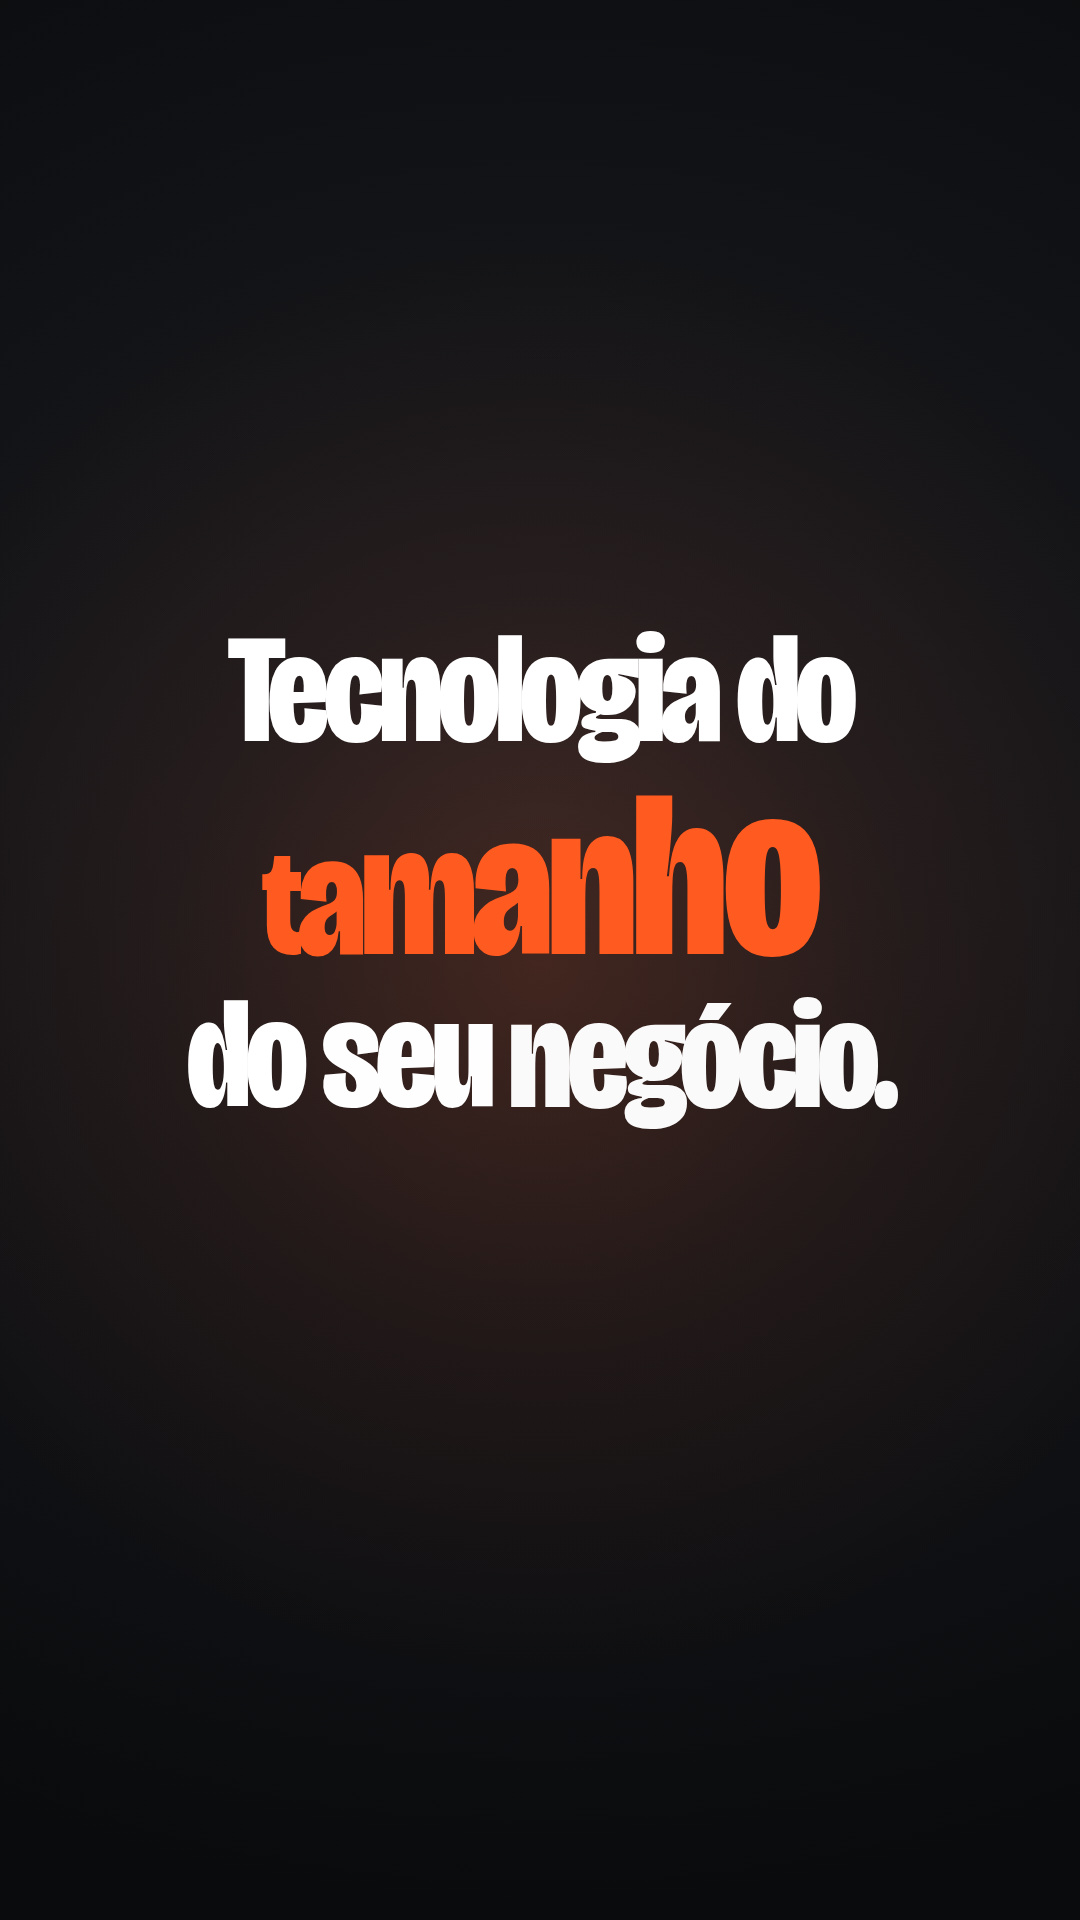
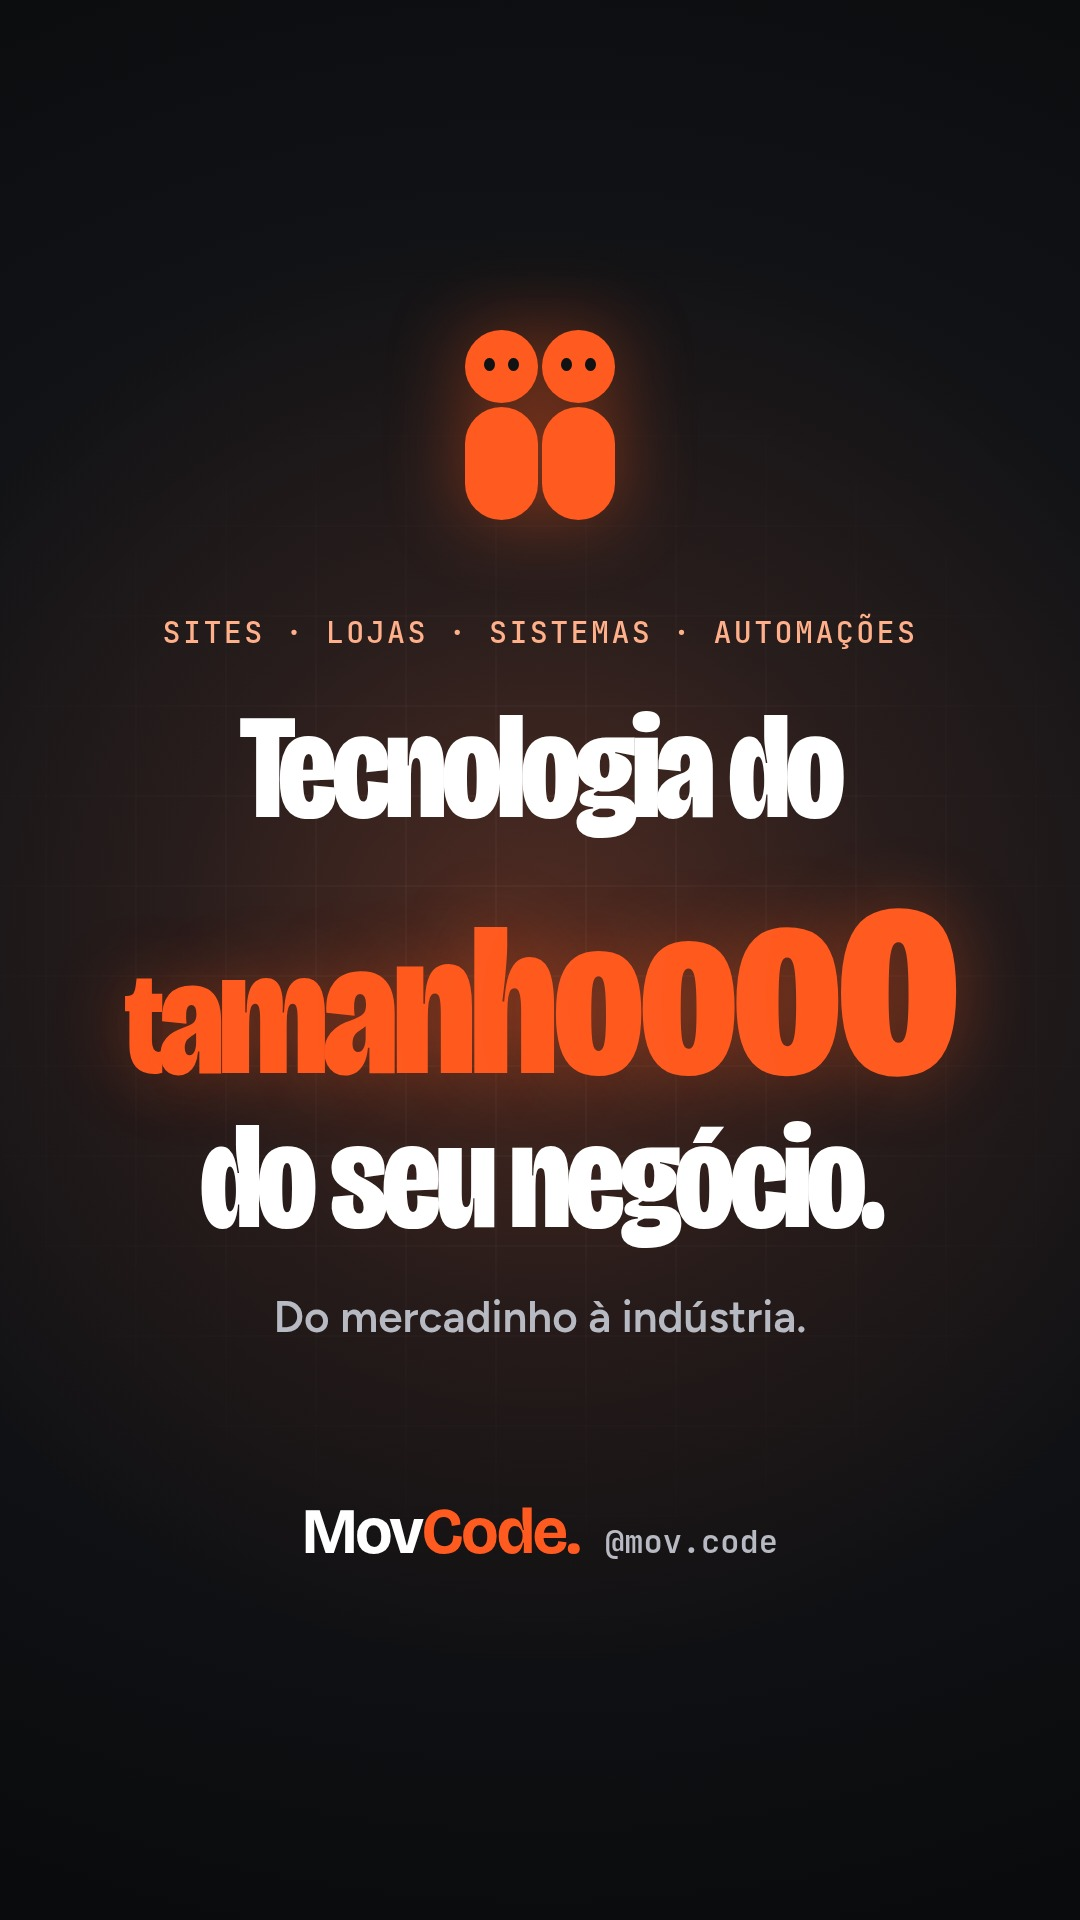
Reels: capa nova e legenda
Capa em HTML no visual do vídeo (mascote, "tamanhoooo" crescendo, MovCode e
@mov.code), com o essencial dentro do recorte 3:4 da grade do perfil e do
4:5 do feed. capa.js renderiza em entrega/movcode-reels-capa.jpg. A legenda
do post fica em entrega/legenda.txt.

Claude-Session: https://claude.ai/code/session_01CXb8BYLDYCTJhfCWFspHd3

diff --git a/video-reels/capa.html b/video-reels/capa.html
@@ -1,0 +1,91 @@
+<!doctype html>
+<html lang="pt-BR">
+<head>
+<meta charset="utf-8">
+<title>MovCode — capa do Reels</title>
+<link rel="stylesheet" href="fonts.css">
+<style>
+/* Capa do Reels (1080x1920). O que importa fica entre y=300 e y=1620:
+   a grade do perfil mostra so o recorte 3:4 do meio (y 240-1680). */
+*{box-sizing:border-box;margin:0;padding:0}
+:root{--noite:#111214;--laranja:#FF5A1F;--pessego:#FFB08A;--cinza:#B7BAC2}
+html,body{width:1080px;height:1920px;overflow:hidden;background:var(--noite)}
+#stage{position:relative;width:1080px;height:1920px;overflow:hidden;color:#fff;font-family:'Figtree',sans-serif;-webkit-font-smoothing:antialiased}
+#bg{position:absolute;inset:0;background:radial-gradient(1300px 1100px at 50% 46%,#1b1d22 0%,#121316 55%,#0a0b0d 100%)}
+.grid{position:absolute;inset:0;background-image:linear-gradient(rgba(255,255,255,.04) 2px,transparent 2px),linear-gradient(90deg,rgba(255,255,255,.04) 2px,transparent 2px);background-size:90px 90px;background-position:-45px -15px;
+  -webkit-mask-image:radial-gradient(900px 900px at 50% 50%,#000 0%,transparent 75%)}
+#glow{position:absolute;width:1500px;height:1500px;left:-210px;top:200px;border-radius:50%;background:radial-gradient(circle,rgba(255,90,31,.24) 0%,rgba(255,90,31,.08) 34%,rgba(255,90,31,0) 68%)}
+.disp{font-family:'Bricolage Grotesque';font-weight:800;font-stretch:75%;letter-spacing:-.035em;line-height:.9}
+.mono{font-family:'JetBrains Mono';font-weight:500;letter-spacing:.08em;text-transform:uppercase}
+
+#logo{position:absolute;left:0;right:0;top:330px;display:flex;justify-content:center;filter:drop-shadow(0 0 40px rgba(255,90,31,.45))}
+#kicker{position:absolute;left:0;right:0;top:612px;text-align:center;font-size:30px;color:var(--pessego)}
+#title{position:absolute;left:0;right:0;top:700px;text-align:center;font-size:150px}
+#title .ln{display:block;white-space:nowrap}
+#tam{color:var(--laranja);text-shadow:0 0 70px rgba(255,90,31,.35)}
+#tam span{display:inline-block}
+#sub{position:absolute;left:0;right:0;top:1290px;text-align:center;font:600 44px 'Figtree';color:var(--cinza)}
+#marca{position:absolute;left:0;right:0;top:1500px;display:flex;justify-content:center;align-items:baseline;gap:26px}
+#marca .wm{font:700 64px/1 'Bricolage Grotesque';letter-spacing:-.03em}
+#marca .wm b{color:var(--laranja);font-weight:700}
+#marca .at{font:600 32px 'JetBrains Mono';color:var(--cinza)}
+</style>
+</head>
+<body>
+<div id="stage">
+  <div id="bg"></div>
+  <div class="grid"></div>
+  <div id="glow"></div>
+  <div id="logo"></div>
+  <div id="kicker" class="mono">Sites · Lojas · Sistemas · Automações</div>
+  <div id="title" class="disp">
+    <span class="ln">Tecnologia do</span>
+    <span class="ln" id="tam">tamanhoooo</span>
+    <span class="ln">do seu negócio.</span>
+  </div>
+  <div id="sub">Do mercadinho à indústria.</div>
+  <div id="marca"><span class="wm">Mov<b>Code.</b></span><span class="at">@mov.code</span></div>
+</div>
+<script>
+// mesmo mascote da cena final do video (scene.html, makeDuo)
+function makeDuo(w, cor) {
+  const d = document.createElement('div');
+  const gap = w * .03, col = (w - gap) / 2;
+  d.style.cssText = `display:grid;grid-template-columns:${col}px ${col}px;gap:${gap}px;width:${w}px`;
+  for (let i = 0; i < 2; i++) {
+    const f = document.createElement('div');
+    f.style.cssText = `display:grid;align-content:start;gap:${gap}px`;
+    const h = document.createElement('b');
+    h.style.cssText = `display:block;width:${col}px;height:${col}px;border-radius:50%;background:${cor};position:relative`;
+    for (const side of ['left', 'right']) {
+      const e = document.createElement('i');
+      e.style.cssText = `position:absolute;top:38%;${side}:26%;width:15%;height:19%;border-radius:50%;background:#111214`;
+      h.appendChild(e);
+    }
+    const b = document.createElement('b');
+    b.style.cssText = `display:block;width:${col}px;height:${col * 1.55}px;border-radius:999px;background:${cor}`;
+    f.append(h, b);
+    d.appendChild(f);
+  }
+  return d;
+}
+
+window.__ready = document.fonts.ready.then(() => {
+  document.getElementById('logo').appendChild(makeDuo(150, '#FF5A1F'));
+  // "tamanhoooo": cada letra maior que a anterior, como no video
+  const tam = document.getElementById('tam');
+  tam.innerHTML = [...tam.textContent].map((c, i) => `<span style="font-size:${(1 + i * .085 + Math.max(0, i - 6) ** 2 * .03).toFixed(3)}em">${c}</span>`).join('');
+  // o titulo inteiro cabe na largura com 70px de margem
+  const title = document.getElementById('title');
+  const maxW = 1080 - 140;
+  const widest = Math.max(...[...title.querySelectorAll('.ln')].map((l) => {
+    l.style.display = 'inline-block';
+    const w = l.getBoundingClientRect().width;
+    l.style.display = '';
+    return w;
+  }));
+  if (widest > maxW) title.style.fontSize = (150 * maxW / widest).toFixed(1) + 'px';
+});
+</script>
+</body>
+</html>

diff --git a/video-reels/capa.js b/video-reels/capa.js
@@ -1,0 +1,17 @@
+// uso: node capa.js [saida.jpg|.png]   (padrao: entrega/movcode-reels-capa.jpg)
+const { chromium } = require('playwright-core');
+const path = require('path');
+const EXE = process.env.CHROME_PATH || '/opt/pw-browsers/chromium-1194/chrome-linux/chrome';
+
+(async () => {
+  const out = process.argv[2] || path.join(__dirname, 'entrega', 'movcode-reels-capa.jpg');
+  const browser = await chromium.launch({ executablePath: EXE, args: ['--font-render-hinting=none', '--force-color-profile=srgb', '--disable-lcd-text'] });
+  const page = await browser.newPage({ viewport: { width: 1080, height: 1920 }, deviceScaleFactor: 1 });
+  page.on('pageerror', (e) => console.error('PAGEERROR', e.message));
+  await page.goto('file://' + path.resolve(__dirname, 'capa.html'));
+  await page.evaluate(() => window.__ready);
+  const jpg = /\.jpe?g$/i.test(out);
+  await page.screenshot({ path: out, type: jpg ? 'jpeg' : 'png', ...(jpg ? { quality: 92 } : {}), clip: { x: 0, y: 0, width: 1080, height: 1920 } });
+  await browser.close();
+  console.log(out);
+})();

diff --git a/video-reels/README.md b/video-reels/README.md
@@ -26,6 +26,7 @@ python3 audio/gemini_vo.py Sulafat      # gera as 16 falas, corta e encaixa nos 
 python3 audio/synth.py                  # trilha + efeitos + voz -> audio/out/mix.wav
 node render.js frames 60 0 37.2 4       # ~10 min, 2.232 quadros (só na primeira vez)
 ./encode_web.sh frames entrega/movcode-reels.mp4
+node capa.js                            # capa -> entrega/movcode-reels-capa.jpg
 ```
 
 O Gemini às vezes devolve um clique no começo e um chiado em volume máximo no
@@ -60,6 +61,8 @@ Os tempos das falas ficam em `cues.json` e são a referência comum da animaçã
 video-reels/
 ├── scene.html        animação inteira (GSAP); window.__seek(t) desenha o instante t
 ├── render.js         captura os quadros com Playwright (vários processos em paralelo)
+├── capa.html         capa do Reels (o essencial fica no recorte 3:4 da grade do perfil)
+├── capa.js           renderiza a capa em JPG
 ├── encode.sh         pós-produção + H.264 (motion blur, bloom, vinheta, grão, aberração)
 ├── encode_web.sh     igual, limitado a ~6 Mbps (arquivo < 30 MB)
 ├── ca.cmd            pulsos de aberração cromática nos impactos (sendcmd do ffmpeg)
@@ -71,7 +74,7 @@ video-reels/
 │   ├── kokoro_vo.py  narração offline com Kokoro (rascunho)
 │   ├── L*.wav        falas em uso (hoje: Gemini, voz Sulafat)
 │   └── vozes/        versões de voz guardadas
-└── entrega/          capa do Reels; os .mp4 gerados ficam aqui (fora do git)
+└── entrega/          capa e legenda do Reels; os .mp4 gerados ficam aqui (fora do git)
 ```
 
 O GSAP vem do próprio site (`../assets/js/vendor/gsap.min.js`).
